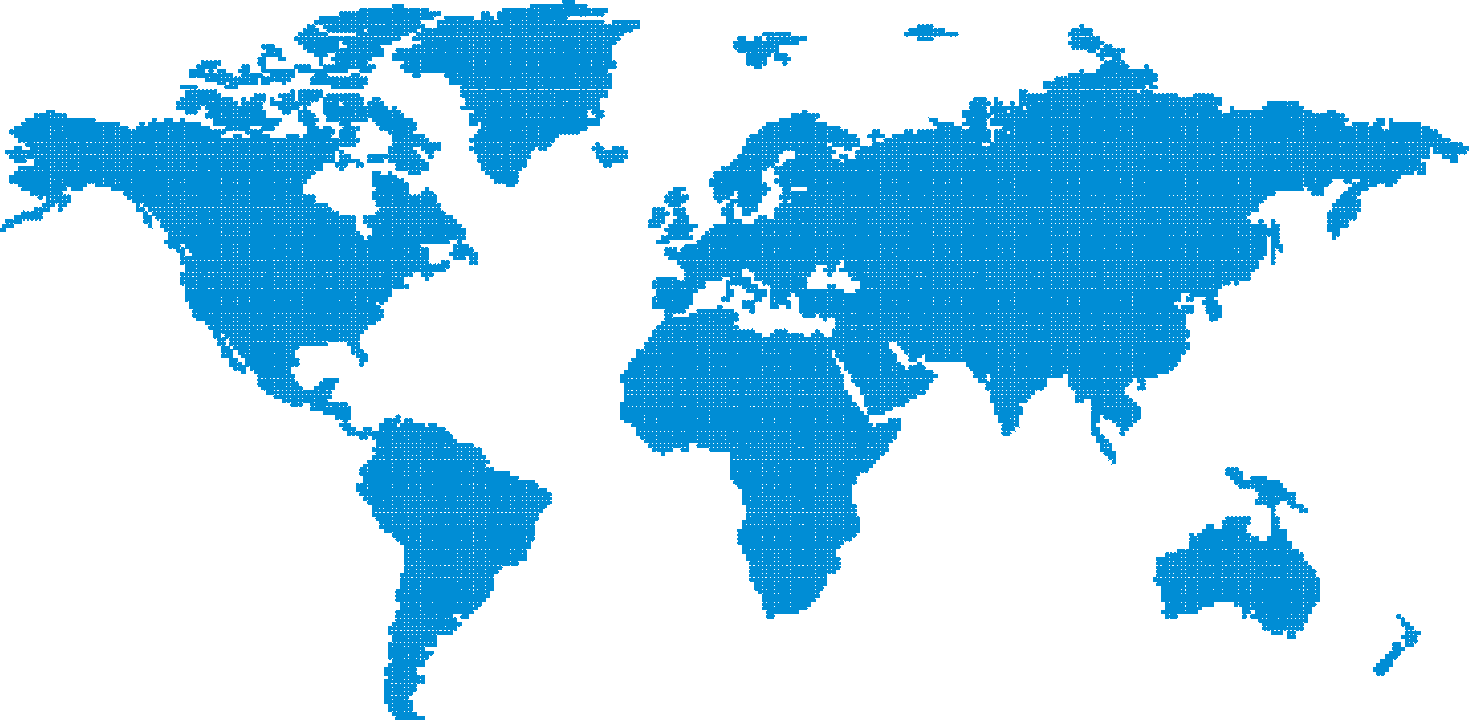
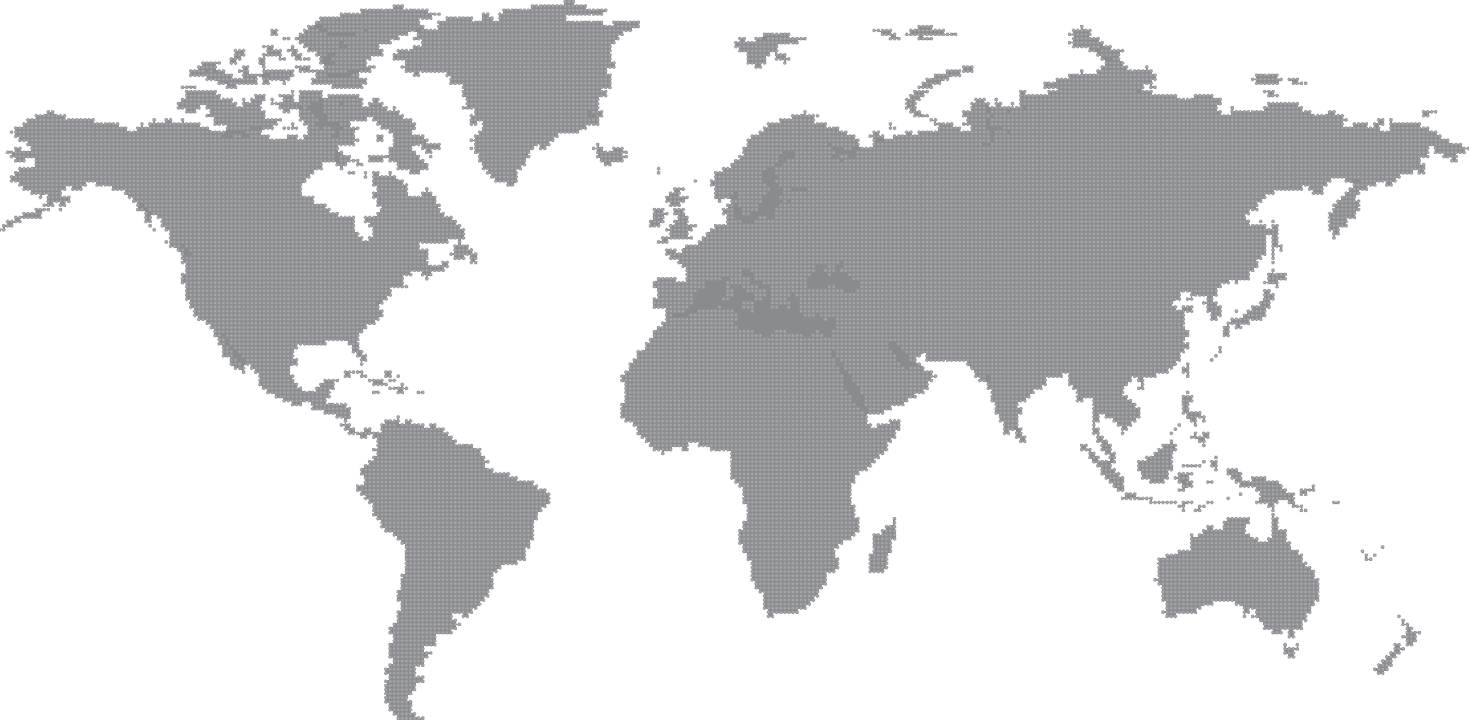
updated loads

diff --git a/Website2/css/agency.min.css b/Website2/css/agency.min.css
@@ -3,4 +3,4 @@
  * Copyright 2013-2016 Start Bootstrap
  * Licensed under MIT (https://github.com/BlackrockDigital/startbootstrap/blob/gh-pages/LICENSE)
  */
-.btn-primary.active,.btn-primary:active,.btn-xl.active,.btn-xl:active,.open .dropdown-toggle.btn-primary,.open .dropdown-toggle.btn-xl{background-image:none}body{overflow-x:hidden;font-family:"Ormont_Light","Ormont_Light",Helvetica,Arial,sans-serif;webkit-tap-highlight-color:#fed136}.btn-primary,.btn-xl,h1,h2,h3,h4,h5,h6{font-family:Montserrat,"Ormont_Light",Helvetica,Arial,sans-serif;text-transform:uppercase;font-weight:700}.text-muted{color:#777}.text-muted2{color:white}.text-primary,a{color:#008DD5}p{font-size:14px;line-height:1.75}p.large{font-size:16px}a,a.active,a:active,a:focus,a:hover{outline:0}a.active,a:active,a:focus,a:hover{color:#008DD5}.img-centered{margin:0 auto}.bg-light-gray{background-color:#008DD5}.bg-darkest-gray{background-color:#222}.btn-primary{color:#fff;background-color:#008DD5;border-color:#008DD5}.btn-primary.active,.btn-primary:active,.btn-primary:focus,.btn-primary:hover,.open .dropdown-toggle.btn-primary{color:#fff;background-color:#5BC0EB;border-color:#5BC0EB}.btn-primary.disabled,.btn-primary.disabled.active,.btn-primary.disabled:active,.btn-primary.disabled:focus,.btn-primary.disabled:hover,.btn-primary[disabled],.btn-primary[disabled].active,.btn-primary[disabled]:active,.btn-primary[disabled]:focus,.btn-primary[disabled]:hover,fieldset[disabled] .btn-primary,fieldset[disabled] .btn-primary.active,fieldset[disabled] .btn-primary:active,fieldset[disabled] .btn-primary:focus,fieldset[disabled] .btn-primary:hover{background-color:#fed136;border-color:#fed136}.btn-primary .badge{color:#fed136;background-color:#fff}.btn-xl{color:#fff;background-color:#fed136;border-color:#fed136;border-radius:3px;font-size:18px;padding:20px 40px}.btn-xl.active,.btn-xl:active,.btn-xl:focus,.btn-xl:hover,.open .dropdown-toggle.btn-xl{color:#fff;background-color:#fec503;border-color:#f6bf01}.btn-xl.disabled,.btn-xl.disabled.active,.btn-xl.disabled:active,.btn-xl.disabled:focus,.btn-xl.disabled:hover,.btn-xl[disabled],.btn-xl[disabled].active,.btn-xl[disabled]:active,.btn-xl[disabled]:focus,.btn-xl[disabled]:hover,fieldset[disabled] .btn-xl,fieldset[disabled] .btn-xl.active,fieldset[disabled] .btn-xl:active,fieldset[disabled] .btn-xl:focus,fieldset[disabled] .btn-xl:hover{background-color:#fed136;border-color:#fed136}.btn-xl .badge{color:#fed136;background-color:#fff}.navbar-custom{background-color:#222;border-color:transparent}.navbar-custom .navbar-brand{color:white;font-family:"Ormont_Light",Helvetica,Arial,cursive}.navbar-custom .navbar-brand.active,.navbar-custom .navbar-brand:active,.navbar-custom .navbar-brand:focus,.navbar-custom .navbar-brand:hover{color:white}.navbar-custom .nav li a,.navbar-custom .navbar-toggle{font-family:Montserrat,"Ormont_Light",Helvetica,Arial,sans-serif;color:#fff;text-transform:uppercase}.navbar-custom .navbar-collapse{border-color:rgba(255,255,255,.02)}.navbar-custom .navbar-toggle{background-color:#fed136;border-color:#fed136;font-size:12px}.navbar-custom .navbar-toggle:focus,.navbar-custom .navbar-toggle:hover{background-color:#fed136}.navbar-custom .nav li a{font-weight:400;letter-spacing:1px}.navbar-custom .nav li a:focus,.navbar-custom .nav li a:hover{color:#008DD5;outline:0}.navbar-custom .navbar-nav>.active>a{border-radius:0;color:#5BC0EB;background-color:white}.navbar-custom .navbar-nav>.active>a:focus,.navbar-custom .navbar-nav>.active>a:hover{color:#fff;background-color:#008DD5}@media (min-width:768px){.navbar-custom{background-color:transparent;padding:25px 0;-webkit-transition:padding .3s;-moz-transition:padding .3s;transition:padding .3s;border:none}.navbar-custom .navbar-brand{font-size:2em;-webkit-transition:all .3s;-moz-transition:all .3s;transition:all .3s}.navbar-custom .navbar-nav>.active>a{border-radius:3px}.navbar-custom.affix{background-color:#5BC0EB;padding:10px 0}.navbar-custom.affix .navbar-brand{font-size:1.5em}}header{background-image:url(../img/bg5.jpg);background-repeat:no-repeat;background-attachment:scroll;background-position:center center;-webkit-background-size:cover;-moz-background-size:cover;background-size:cover;-o-background-size:cover;text-align:center;color:#fff}header .intro-text{padding-top:100px;padding-bottom:50px}header .intro-text .intro-lead-in{font-family:"Droid Serif","Ormont_Light",Helvetica,Arial,sans-serif;font-style:italic;font-size:22px;line-height:22px;margin-bottom:25px}header .intro-text .intro-heading{font-family:Montserrat,"Ormont_Light",Helvetica,Arial,sans-serif;text-transform:uppercase;font-weight:700;font-size:50px;line-height:50px;margin-bottom:25px}@media (min-width:768px){header .intro-text{padding-top:300px;padding-bottom:200px}header .intro-text .intro-lead-in{font-family:"Droid Serif","Ormont_Light",Helvetica,Arial,sans-serif;font-style:italic;font-size:40px;line-height:40px;margin-bottom:25px}header .intro-text .intro-heading{font-family:Montserrat,"Ormont_Light",Helvetica,Arial,sans-serif;text-transform:uppercase;font-weight:700;font-size:75px;line-height:75px;margin-bottom:50px}}#portfolio .portfolio-item .portfolio-caption p,section h3.section-subheading{font-family:"Droid Serif","Ormont_Light",Helvetica,Arial,sans-serif;font-style:italic}section{padding:100px 0}section h2.section-heading{font-size:40px;margin-top:0;margin-bottom:15px}section h3.section-subheading{font-size:16px;text-transform:none;font-weight:400;margin-bottom:75px}@media (min-width:768px){section{padding:150px 0}}.service-heading{margin:15px 0;text-transform:none}#portfolio .portfolio-item{margin:0 0 15px;right:0}#portfolio .portfolio-item .portfolio-link{display:block;position:relative;max-width:400px;margin:0 auto}#portfolio .portfolio-item .portfolio-link .portfolio-hover{background:rgba(91,192,235,.9);position:absolute;width:100%;height:100%;opacity:0;transition:all ease .5s;-webkit-transition:all ease .5s;-moz-transition:all ease .5s}#portfolio .portfolio-item .portfolio-link .portfolio-hover:hover{opacity:1}#portfolio .portfolio-item .portfolio-link .portfolio-hover .portfolio-hover-content{position:absolute;width:100%;height:20px;font-size:20px;text-align:center;top:50%;margin-top:-12px;color:#fff}#portfolio .portfolio-item .portfolio-link .portfolio-hover .portfolio-hover-content i{margin-top:-12px}#portfolio .portfolio-item .portfolio-link .portfolio-hover .portfolio-hover-content h3,#portfolio .portfolio-item .portfolio-link .portfolio-hover .portfolio-hover-content h4{margin:0}#portfolio .portfolio-item .portfolio-caption{max-width:400px;margin:0 auto;background-color:#fff;text-align:center;padding:25px;border-top: 1px solid #5BC0EB}#portfolio .portfolio-item .portfolio-caption h4{text-transform:none;margin:0}#portfolio .portfolio-item .portfolio-caption p{font-size:16px;margin:0}footer span.copyright,footer ul.quicklinks{font-family:Montserrat,"Ormont_Light",Helvetica,Arial,sans-serif}#portfolio *{z-index:2}@media (min-width:767px){#portfolio .portfolio-item{margin:0 0 30px}}.timeline{list-style:none;padding:0;position:relative}.timeline:before{top:0;bottom:0;position:absolute;content:"";width:2px;background-color:#f1f1f1;left:40px;margin-left:-1.5px}.timeline>li{margin-bottom:50px;position:relative;min-height:50px}.timeline>li:after,.timeline>li:before{content:" ";display:table}.timeline>li:after{clear:both}.timeline>li .timeline-panel{width:100%;float:right;padding:0 20px 0 100px;position:relative;text-align:left}.timeline>li .timeline-panel:before{border-left-width:0;border-right-width:15px;left:-15px;right:auto}.timeline>li .timeline-panel:after{border-left-width:0;border-right-width:14px;left:-14px;right:auto}.timeline>li .timeline-image{left:0;margin-left:0;width:80px;height:80px;position:absolute;z-index:100;background-color:#008DD5;color:#fff;border-radius:100%;border:7px solid #f1f1f1;text-align:center}.timeline>li .timeline-image h4{font-size:10px;margin-top:12px;line-height:14px}.timeline>li.timeline-inverted>.timeline-panel{float:right;text-align:left;padding:0 20px 0 100px}.timeline>li.timeline-inverted>.timeline-panel:before{border-left-width:0;border-right-width:15px;left:-15px;right:auto}.timeline>li.timeline-inverted>.timeline-panel:after{border-left-width:0;border-right-width:14px;left:-14px;right:auto}.timeline>li:last-child{margin-bottom:0}.timeline .timeline-heading h4{margin-top:0;color:inherit}.timeline .timeline-heading h4.subheading{text-transform:none}.timeline .timeline-body>p,.timeline .timeline-body>ul{margin-bottom:0}@media (min-width:768px){.timeline:before{left:50%}.timeline>li{margin-bottom:100px;min-height:100px}.timeline>li .timeline-panel{width:41%;float:left;padding:0 20px 20px 30px;text-align:right}.timeline>li .timeline-image{width:100px;height:100px;left:50%;margin-left:-50px}.timeline>li .timeline-image h4{font-size:13px;margin-top:16px;line-height:18px}.timeline>li.timeline-inverted>.timeline-panel{float:right;text-align:left;padding:0 30px 20px 20px}}@media (min-width:992px){.timeline>li .timeline-panel,.timeline>li.timeline-inverted>.timeline-panel{padding:0 20px 20px}.timeline>li{min-height:150px}.timeline>li .timeline-image{width:150px;height:150px;margin-left:-75px}.timeline>li .timeline-image h4{font-size:18px;margin-top:30px;line-height:26px}}@media (min-width:1200px){.timeline>li{min-height:170px}.timeline>li .timeline-panel{padding:0 20px 20px 100px}.timeline>li .timeline-image{width:170px;height:170px;margin-left:-85px}.timeline>li .timeline-image h4{margin-top:40px}.timeline>li.timeline-inverted>.timeline-panel{padding:0 100px 20px 20px}}.team-member{text-align:center;margin-bottom:50px}.team-member img{margin:0 auto;border:7px solid #fff}.team-member h4{margin-top:25px;margin-bottom:0;text-transform:none}.team-member p{margin-top:0}aside.clients img{margin:50px auto}section#contact{background-color:white;background-image:url(../img/map-image.png);background-position:center;background-repeat:no-repeat}section#contact .section-heading{color:#fff}section#contact .form-group{margin-bottom:25px}section#contact .form-group input,section#contact .form-group textarea{padding:20px}section#contact .form-group input.form-control{height:auto}section#contact .form-group textarea.form-control{height:236px}section#contact .form-control:focus{border-color:#fed136;box-shadow:none}section#contact ::-webkit-input-placeholder{font-family:Montserrat,"Ormont_Light",Helvetica,Arial,sans-serif;text-transform:uppercase;font-weight:700;color:#eee}section#contact :-moz-placeholder{font-family:Montserrat,"Ormont_Light",Helvetica,Arial,sans-serif;text-transform:uppercase;font-weight:700;color:#eee}section#contact ::-moz-placeholder{font-family:Montserrat,"Ormont_Light",Helvetica,Arial,sans-serif;text-transform:uppercase;font-weight:700;color:#eee}section#contact :-ms-input-placeholder{font-family:Montserrat,"Ormont_Light",Helvetica,Arial,sans-serif;text-transform:uppercase;font-weight:700;color:#eee}section#contact .text-danger{color:#e74c3c}footer{padding:25px 0;text-align:center}footer span.copyright{line-height:40px;text-transform:uppercase;text-transform:none}footer ul.quicklinks{margin-bottom:0;line-height:40px;text-transform:uppercase;text-transform:none}ul.social-buttons{margin-bottom:0}ul.social-buttons li a{display:block;background-color:#222;height:40px;width:40px;border-radius:100%;font-size:20px;line-height:40px;color:#fff;outline:0;-webkit-transition:all .3s;-moz-transition:all .3s;transition:all .3s}ul.social-buttons li a:active,ul.social-buttons li a:focus,ul.social-buttons li a:hover{background-color:#fed136}.btn.active,.btn:active,.btn:active:focus,.btn:focus{outline:0}.portfolio-modal .modal-dialog{margin:0;height:100%;width:auto}.portfolio-modal .modal-content{border-radius:0;background-clip:border-box;-webkit-box-shadow:none;box-shadow:none;border:none;min-height:100%;padding:100px 0;text-align:center}.portfolio-modal .modal-content h2{margin-bottom:15px;font-size:3em}.portfolio-modal .modal-content p{margin-bottom:30px}.portfolio-modal .modal-content p.item-intro{margin:20px 0 30px;font-family:"Droid Serif","Ormont_Light",Helvetica,Arial,sans-serif;font-style:italic;font-size:16px}.portfolio-modal .modal-content ul.list-inline{margin-bottom:30px;margin-top:0}.portfolio-modal .modal-content img{margin-bottom:30px}.portfolio-modal .close-modal{position:absolute;width:75px;height:75px;background-color:transparent;top:25px;right:25px;cursor:pointer}.portfolio-modal .close-modal:hover{opacity:.3}.portfolio-modal .close-modal .lr{height:75px;width:1px;margin-left:35px;background-color:#222;transform:rotate(45deg);-ms-transform:rotate(45deg);-webkit-transform:rotate(45deg);z-index:1051}.portfolio-modal .close-modal .lr .rl{height:75px;width:1px;background-color:#222;transform:rotate(90deg);-ms-transform:rotate(90deg);-webkit-transform:rotate(90deg);z-index:1052}.portfolio-modal .modal-backdrop{opacity:0;display:none}::-moz-selection{text-shadow:none;background:#fed136}::selection{text-shadow:none;background:#fed136}img::selection{background:0 0}img::-moz-selection{background:0 0}
+.btn-primary.active,.btn-primary:active,.btn-xl.active,.btn-xl:active,.open .dropdown-toggle.btn-primary,.open .dropdown-toggle.btn-xl{background-image:none}body{overflow-x:hidden;font-family:"Ormont_Light","Ormont_Light",Helvetica,Arial,sans-serif;webkit-tap-highlight-color:#fed136}.btn-primary,.btn-xl,h1,h2,h3,h4,h5,h6{font-family:Montserrat,"Ormont_Light",Helvetica,Arial,sans-serif;text-transform:uppercase;font-weight:700}.text-muted{color:#777}.text-muted2{color:white}.text-primary,a{color:#8a8b8f}p{font-size:14px;line-height:1.75}p.large{font-size:16px}a,a.active,a:active,a:focus,a:hover{outline:0}a.active,a:active,a:focus,a:hover{color:#8a8b8f}.img-centered{margin:0 auto}.bg-light-gray{background-color:#8a8b8f}.bg-darkest-gray{background-color:#222}.btn-primary{color:#fff;background-color:black;border-color:black}.btn-primary.active,.btn-primary:active,.btn-primary:focus,.btn-primary:hover,.open .dropdown-toggle.btn-primary{color:#fff;background-color:black;border-color:black}.btn-primary.disabled,.btn-primary.disabled.active,.btn-primary.disabled:active,.btn-primary.disabled:focus,.btn-primary.disabled:hover,.btn-primary[disabled],.btn-primary[disabled].active,.btn-primary[disabled]:active,.btn-primary[disabled]:focus,.btn-primary[disabled]:hover,fieldset[disabled] .btn-primary,fieldset[disabled] .btn-primary.active,fieldset[disabled] .btn-primary:active,fieldset[disabled] .btn-primary:focus,fieldset[disabled] .btn-primary:hover{background-color:#fed136;border-color:#fed136}.btn-primary .badge{color:#fed136;background-color:#fff}.btn-xl{color:#fff;background-color:black;border-color:black;border-radius:3px;font-size:18px;padding:20px 40px}.btn-xl.active,.btn-xl:active,.btn-xl:focus,.btn-xl:hover,.open .dropdown-toggle.btn-xl{color:#fff;background-color:#8a8b8f;border-color:#8a8b8f}.btn-xl.disabled,.btn-xl.disabled.active,.btn-xl.disabled:active,.btn-xl.disabled:focus,.btn-xl.disabled:hover,.btn-xl[disabled],.btn-xl[disabled].active,.btn-xl[disabled]:active,.btn-xl[disabled]:focus,.btn-xl[disabled]:hover,fieldset[disabled] .btn-xl,fieldset[disabled] .btn-xl.active,fieldset[disabled] .btn-xl:active,fieldset[disabled] .btn-xl:focus,fieldset[disabled] .btn-xl:hover{background-color:#fed136;border-color:#fed136}.btn-xl .badge{color:#fed136;background-color:#fff}.navbar-custom{background-color:#222;border-color:transparent}.navbar-custom .navbar-brand{color:white;font-family:"Ormont_Light",Helvetica,Arial,cursive}.navbar-custom .navbar-brand.active,.navbar-custom .navbar-brand:active,.navbar-custom .navbar-brand:focus,.navbar-custom .navbar-brand:hover{color:white}.navbar-custom .nav li a,.navbar-custom .navbar-toggle{font-family:Montserrat,"Ormont_Light",Helvetica,Arial,sans-serif;color:#fff;text-transform:uppercase}.navbar-custom .navbar-collapse{border-color:rgba(255,255,255,.02)}.navbar-custom .navbar-toggle{background-color:black;border-color:black;font-size:12px}.navbar-custom .navbar-toggle:focus,.navbar-custom .navbar-toggle:hover{background-color:black}.navbar-custom .nav li a{font-weight:400;letter-spacing:1px}.navbar-custom .nav li a:focus,.navbar-custom .nav li a:hover{color:#8a8b8f;outline:0}.navbar-custom .navbar-nav>.active>a{border-radius:0;color:black;background-color:white}.navbar-custom .navbar-nav>.active>a:focus,.navbar-custom .navbar-nav>.active>a:hover{color:#fff;background-color:#3A3E3B}@media (min-width:768px){.navbar-custom{background-color:transparent;padding:25px 0;-webkit-transition:padding .3s;-moz-transition:padding .3s;transition:padding .3s;border:none}.navbar-custom .navbar-brand{font-size:2em;-webkit-transition:all .3s;-moz-transition:all .3s;transition:all .3s}.navbar-custom .navbar-nav>.active>a{border-radius:3px}.navbar-custom.affix{background-color:black;padding:10px 0}.navbar-custom.affix .navbar-brand{font-size:1.5em}}header{background-image:url(../img/bg6.jpg);background-repeat:no-repeat;background-attachment:scroll;background-position:center center;-webkit-background-size:cover;-moz-background-size:cover;background-size:cover;-o-background-size:cover;text-align:center;color:#fff}header .intro-text{padding-top:100px;padding-bottom:50px}header .intro-text .intro-lead-in{font-family:"Droid Serif","Ormont_Light",Helvetica,Arial,sans-serif;font-style:italic;font-size:22px;line-height:22px;margin-bottom:25px}header .intro-text .intro-heading{font-family:Montserrat,"Ormont_Light",Helvetica,Arial,sans-serif;text-transform:uppercase;font-weight:700;font-size:50px;line-height:50px;margin-bottom:25px}@media (min-width:768px){header .intro-text{padding-top:300px;padding-bottom:200px}header .intro-text .intro-lead-in{font-family:"Droid Serif","Ormont_Light",Helvetica,Arial,sans-serif;font-style:italic;font-size:40px;line-height:40px;margin-bottom:25px}header .intro-text .intro-heading{font-family:Montserrat,"Ormont_Light",Helvetica,Arial,sans-serif;text-transform:uppercase;font-weight:700;font-size:75px;line-height:75px;margin-bottom:50px}}#portfolio .portfolio-item .portfolio-caption p,section h3.section-subheading{font-family:"Droid Serif","Ormont_Light",Helvetica,Arial,sans-serif;font-style:italic}section{padding:100px 0}section h2.section-heading{font-size:40px;margin-top:0;margin-bottom:15px}section h3.section-subheading{font-size:16px;text-transform:none;font-weight:400;margin-bottom:75px}@media (min-width:768px){section{padding:150px 0}}.service-heading{margin:15px 0;text-transform:none}#portfolio .portfolio-item{margin:0 0 15px;right:0}#portfolio .portfolio-item .portfolio-link{display:block;position:relative;max-width:400px;margin:0 auto}#portfolio .portfolio-item .portfolio-link .portfolio-hover{background:rgba(0,0,0,.9);position:absolute;width:100%;height:100%;opacity:0;transition:all ease .5s;-webkit-transition:all ease .5s;-moz-transition:all ease .5s}#portfolio .portfolio-item .portfolio-link .portfolio-hover:hover{opacity:1}#portfolio .portfolio-item .portfolio-link .portfolio-hover .portfolio-hover-content{position:absolute;width:100%;height:20px;font-size:20px;text-align:center;top:50%;margin-top:-12px;color:#fff}#portfolio .portfolio-item .portfolio-link .portfolio-hover .portfolio-hover-content i{margin-top:-12px}#portfolio .portfolio-item .portfolio-link .portfolio-hover .portfolio-hover-content h3,#portfolio .portfolio-item .portfolio-link .portfolio-hover .portfolio-hover-content h4{margin:0}#portfolio .portfolio-item .portfolio-caption{max-width:400px;margin:0 auto;background-color:#fff;text-align:center;padding:25px;border-top: 1px solid #8a8b8f}#portfolio .portfolio-item .portfolio-caption h4{text-transform:none;margin:0}#portfolio .portfolio-item .portfolio-caption p{font-size:16px;margin:0}footer span.copyright,footer ul.quicklinks{font-family:Montserrat,"Ormont_Light",Helvetica,Arial,sans-serif}#portfolio *{z-index:2}@media (min-width:767px){#portfolio .portfolio-item{margin:0 0 30px}}.timeline{list-style:none;padding:0;position:relative}.timeline:before{top:0;bottom:0;position:absolute;content:"";width:2px;background-color:#f1f1f1;left:40px;margin-left:-1.5px}.timeline>li{margin-bottom:50px;position:relative;min-height:50px}.timeline>li:after,.timeline>li:before{content:" ";display:table}.timeline>li:after{clear:both}.timeline>li .timeline-panel{width:100%;float:right;padding:0 20px 0 100px;position:relative;text-align:left}.timeline>li .timeline-panel:before{border-left-width:0;border-right-width:15px;left:-15px;right:auto}.timeline>li .timeline-panel:after{border-left-width:0;border-right-width:14px;left:-14px;right:auto}.timeline>li .timeline-image{left:0;margin-left:0;width:80px;height:80px;position:absolute;z-index:100;background-color:#8a8b8f;color:#fff;border-radius:100%;border:7px solid #f1f1f1;text-align:center}.timeline>li .timeline-image h4{font-size:10px;margin-top:12px;line-height:14px}.timeline>li.timeline-inverted>.timeline-panel{float:right;text-align:left;padding:0 20px 0 100px}.timeline>li.timeline-inverted>.timeline-panel:before{border-left-width:0;border-right-width:15px;left:-15px;right:auto}.timeline>li.timeline-inverted>.timeline-panel:after{border-left-width:0;border-right-width:14px;left:-14px;right:auto}.timeline>li:last-child{margin-bottom:0}.timeline .timeline-heading h4{margin-top:0;color:inherit}.timeline .timeline-heading h4.subheading{text-transform:none}.timeline .timeline-body>p,.timeline .timeline-body>ul{margin-bottom:0}@media (min-width:768px){.timeline:before{left:50%}.timeline>li{margin-bottom:100px;min-height:100px}.timeline>li .timeline-panel{width:41%;float:left;padding:0 20px 20px 30px;text-align:right}.timeline>li .timeline-image{width:100px;height:100px;left:50%;margin-left:-50px}.timeline>li .timeline-image h4{font-size:13px;margin-top:16px;line-height:18px}.timeline>li.timeline-inverted>.timeline-panel{float:right;text-align:left;padding:0 30px 20px 20px}}@media (min-width:992px){.timeline>li .timeline-panel,.timeline>li.timeline-inverted>.timeline-panel{padding:0 20px 20px}.timeline>li{min-height:150px}.timeline>li .timeline-image{width:150px;height:150px;margin-left:-75px}.timeline>li .timeline-image h4{font-size:18px;margin-top:30px;line-height:26px}}@media (min-width:1200px){.timeline>li{min-height:170px}.timeline>li .timeline-panel{padding:0 20px 20px 100px}.timeline>li .timeline-image{width:170px;height:170px;margin-left:-85px}.timeline>li .timeline-image h4{margin-top:40px}.timeline>li.timeline-inverted>.timeline-panel{padding:0 100px 20px 20px}}.team-member{text-align:center;margin-bottom:50px}.team-member img{margin:0 auto;border:7px solid #fff}.team-member h4{margin-top:25px;margin-bottom:0;text-transform:none}.team-member p{margin-top:0}aside.clients img{margin:50px auto}section#contact{background-color:white;background-image:url(../img/map-image.png);background-position:center;background-repeat:no-repeat}section#contact .section-heading{color:#fff}section#contact .form-group{margin-bottom:25px}section#contact .form-group input,section#contact .form-group textarea{padding:20px}section#contact .form-group input.form-control{height:auto}section#contact .form-group textarea.form-control{height:236px}section#contact .form-control:focus{border-color:black;box-shadow:none}section#contact ::-webkit-input-placeholder{font-family:Montserrat,"Ormont_Light",Helvetica,Arial,sans-serif;text-transform:uppercase;font-weight:700;color:#eee}section#contact :-moz-placeholder{font-family:Montserrat,"Ormont_Light",Helvetica,Arial,sans-serif;text-transform:uppercase;font-weight:700;color:#eee}section#contact ::-moz-placeholder{font-family:Montserrat,"Ormont_Light",Helvetica,Arial,sans-serif;text-transform:uppercase;font-weight:700;color:#eee}section#contact :-ms-input-placeholder{font-family:Montserrat,"Ormont_Light",Helvetica,Arial,sans-serif;text-transform:uppercase;font-weight:700;color:#eee}section#contact .text-danger{color:#e74c3c}footer{padding:25px 0;text-align:center}footer span.copyright{line-height:40px;text-transform:uppercase;text-transform:none}footer ul.quicklinks{margin-bottom:0;line-height:40px;text-transform:uppercase;text-transform:none}ul.social-buttons{margin-bottom:0}ul.social-buttons li a{display:block;background-color:#222;height:40px;width:40px;border-radius:100%;font-size:20px;line-height:40px;color:#fff;outline:0;-webkit-transition:all .3s;-moz-transition:all .3s;transition:all .3s}ul.social-buttons li a:active,ul.social-buttons li a:focus,ul.social-buttons li a:hover{background-color:#8a8b8f}.btn.active,.btn:active,.btn:active:focus,.btn:focus{outline:0}.portfolio-modal .modal-dialog{margin:0;height:100%;width:auto}.portfolio-modal .modal-content{border-radius:0;background-clip:border-box;-webkit-box-shadow:none;box-shadow:none;border:none;min-height:100%;padding:100px 0;text-align:center}.portfolio-modal .modal-content h2{margin-bottom:15px;font-size:3em}.portfolio-modal .modal-content p{margin-bottom:30px}.portfolio-modal .modal-content p.item-intro{margin:20px 0 30px;font-family:"Droid Serif","Ormont_Light",Helvetica,Arial,sans-serif;font-style:italic;font-size:16px}.portfolio-modal .modal-content ul.list-inline{margin-bottom:30px;margin-top:0}.portfolio-modal .modal-content img{margin-bottom:30px}.portfolio-modal .close-modal{position:absolute;width:75px;height:75px;background-color:transparent;top:25px;right:25px;cursor:pointer}.portfolio-modal .close-modal:hover{opacity:.3}.portfolio-modal .close-modal .lr{height:75px;width:1px;margin-left:35px;background-color:#222;transform:rotate(45deg);-ms-transform:rotate(45deg);-webkit-transform:rotate(45deg);z-index:1051}.portfolio-modal .close-modal .lr .rl{height:75px;width:1px;background-color:#222;transform:rotate(90deg);-ms-transform:rotate(90deg);-webkit-transform:rotate(90deg);z-index:1052}.portfolio-modal .modal-backdrop{opacity:0;display:none}::-moz-selection{text-shadow:none;background:#fed136}::selection{text-shadow:none;background:#fed136}img::selection{background:0 0}img::-moz-selection{background:0 0}

diff --git a/Website2/css/agency.css b/Website2/css/agency.css
@@ -9,8 +9,8 @@
  src: local(Ormont_Light), url('www.tjshaw.co.uk/font/Ormont_Light.ttf') format('opentype');
  }
 
-#008DD5
-#5BC0EB
+#8a8b8f
+
 
 body {
   overflow-x: hidden;
@@ -20,7 +20,7 @@ body {
   color: #777777;
 }
 .text-primary {
-  color: #008DD5;
+  color: #8a8b8f;
 }
 p {
   font-size: 14px;
@@ -43,7 +43,7 @@ a:hover,
 a:focus,
 a:active,
 a.active {
-  color: #008DD5;
+  color: #8a8b8f;
 }
 h1,
 h2,
@@ -59,7 +59,7 @@ h6 {
   margin: 0 auto;
 }
 .bg-light-gray {
-  background-color: #008DD5;
+  background-color: #8a8b8f;
 }
 .bg-darkest-gray {
   background-color: #222222;
@@ -110,8 +110,8 @@ fieldset[disabled] .btn-primary.active {
 }
 .btn-xl {
   color: white;
-  background-color: #fed136;
-  border-color: #fed136;
+  background-color: black;
+  border-color: black;
   font-family: "Montserrat", "Ormont_Light", Helvetica, Arial, sans-serif;
   text-transform: uppercase;
   font-weight: 700;
@@ -182,7 +182,7 @@ fieldset[disabled] .btn-xl.active {
 }
 .navbar-custom .navbar-toggle:hover,
 .navbar-custom .navbar-toggle:focus {
-  background-color: #fed136;
+  background-color: black;
 }
 .navbar-custom .nav li a {
   font-family: "Montserrat", "Ormont_Light", Helvetica, Arial, sans-serif;
@@ -193,7 +193,7 @@ fieldset[disabled] .btn-xl.active {
 }
 .navbar-custom .nav li a:hover,
 .navbar-custom .nav li a:focus {
-  color: #fed136;
+  color: #8a8b8f;
   outline: none;
 }
 .navbar-custom .navbar-nav > .active > a {
@@ -323,7 +323,7 @@ section h3.section-subheading {
   margin: 0 auto;
 }
 #portfolio .portfolio-item .portfolio-link .portfolio-hover {
-  background: rgba(91,192,235,.9);
+  background: rgba(0,0,0,.9);
   position: absolute;
   width: 100%;
   height: 100%;
@@ -358,7 +358,7 @@ section h3.section-subheading {
   background-color: white;
   text-align: center;
   padding: 25px;
-  border-top: 1px solid #008DD5;
+  border-top: 1px solid #8a8b8f;
 }
 #portfolio .portfolio-item .portfolio-caption h4 {
   text-transform: none;
@@ -588,7 +588,7 @@ section#contact .form-group textarea.form-control {
   height: 236px;
 }
 section#contact .form-control:focus {
-  border-color: #fed136;
+  border-color: black;
   box-shadow: none;
 }
 section#contact ::-webkit-input-placeholder {
@@ -657,7 +657,7 @@ ul.social-buttons li a {
 ul.social-buttons li a:hover,
 ul.social-buttons li a:focus,
 ul.social-buttons li a:active {
-  background-color: #fed136;
+  background-color: #8a8b8f;
 }
 .btn:focus,
 .btn:active,

diff --git a/Website2/index.html b/Website2/index.html
@@ -430,8 +430,8 @@
   <div class="container">
     <div class="row">
       <div class="col-lg-12 text-center">
-        <h2 style="color:#5BC0EB" class="section-heading">Contact Me</h2>
-        <h3 class="section-subheading text-muted">Message Message Message.</h3>
+        <h2 style="color:black" class="section-heading">Contact Me</h2>
+        <h3 style="color:black" class="section-subheading text-muted">Message Message Message.</h3>
       </div>
     </div>
     <div class="row">
@@ -477,14 +477,14 @@
         <span class="copyright">Copyright &copy; tjshaw.co.uk</span>
       </div>
       <div class="col-md-4">
-        <ul class="list-inline social-buttons">
-          <li><a href="#"><i class="fa fa-twitter"></i></a>
-          </li>
-          <li><a href="#"><i class="fa fa-facebook"></i></a>
-          </li>
-          <li><a href="#"><i class="fa fa-linkedin"></i></a>
-          </li>
-        </ul>
+          <ul class="list-inline social-buttons">
+              <li><a href="#"><i class="fa fa-twitter">T</i></a>
+              </li>
+              <li><a href="#"><i class="fa fa-facebook">F</i></a>
+              </li>
+              <li><a href="#"><i class="fa fa-instagrm">I</i></a>
+              </li>
+          </ul>
       </div>
       <!-- <div class="col-md-4">
       <ul class="list-inline quicklinks">
